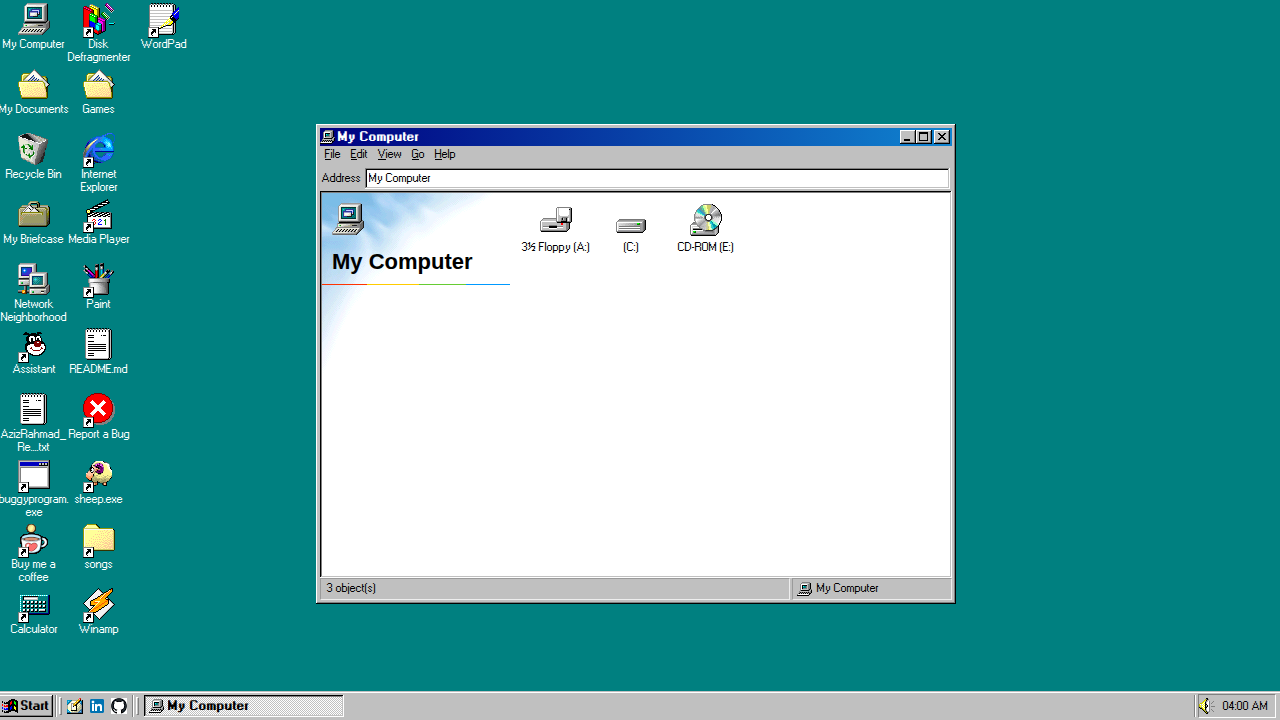
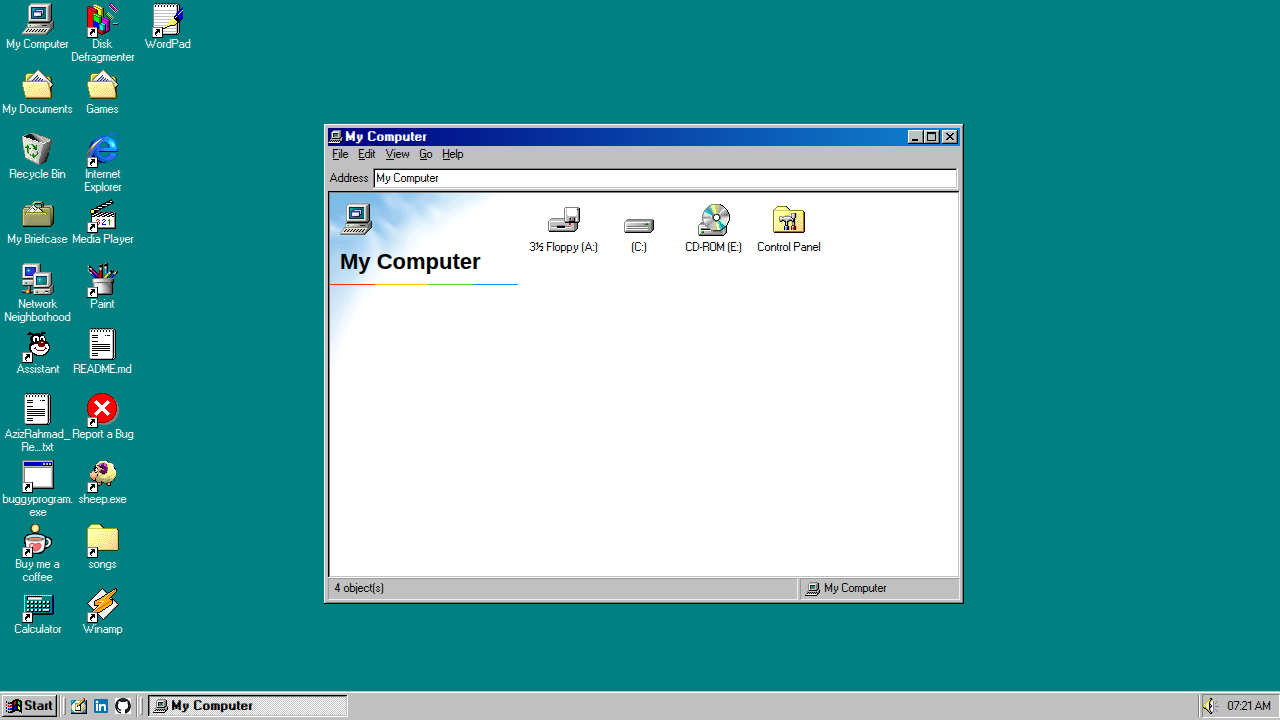
feat: add shell extension system and Control Panel with custom columns
- Implemented `ZenShellManager` for virtual shell extensions.
- Added `ControlPanelExtension` with custom columns (Name, Description).
- Updated `ZenDirectoryView` to support dynamic columns and custom sorting in Details view.
- Ensured My Computer root shows Name/Type columns with drives first.
- Added app descriptions to Control Panel items.

diff --git a/src/apps/zenexplorer/components/ZenDirectoryView.js b/src/apps/zenexplorer/components/ZenDirectoryView.js
@@ -64,8 +64,17 @@ export class ZenDirectoryView {
   async renderDirectoryContents(path) {
     let files = await ZenShellManager.readdir(path);
 
-    // Sort files alphabetically (so A: comes before C:)
-    files.sort((a, b) => a.localeCompare(b));
+    // Sort files alphabetically
+    files.sort((a, b) => {
+      // Special sort for root: Drives before shell extensions
+      if (path === "/") {
+        const isDriveA = a.match(/^[A-Z]:$/i);
+        const isDriveB = b.match(/^[A-Z]:$/i);
+        if (isDriveA && !isDriveB) return -1;
+        if (!isDriveA && isDriveB) return 1;
+      }
+      return a.localeCompare(b);
+    });
 
     // Clear view
     this.app.iconContainer.innerHTML = "";
@@ -84,18 +93,20 @@ export class ZenDirectoryView {
 
     // Details view rendering
     if (this.app.viewMode === "details") {
+      const columns = ZenShellManager.getColumns(path);
       const table = document.createElement("table");
       table.className = "interactive";
       const thead = document.createElement("thead");
-      thead.innerHTML = `
-        <tr>
-          <th>Name</th>
-          <th>Size</th>
-          <th>Type</th>
-          <th>Modified</th>
-        </tr>
-      `;
+
+      const headerRow = document.createElement("tr");
+      columns.forEach((col) => {
+        const th = document.createElement("th");
+        th.textContent = col.label;
+        headerRow.appendChild(th);
+      });
+      thead.appendChild(headerRow);
       table.appendChild(thead);
+
       const tbody = document.createElement("tbody");
       table.appendChild(tbody);
 
@@ -112,33 +123,51 @@ export class ZenDirectoryView {
           tr.setAttribute("data-type", isDir ? "directory" : "file");
           tr.setAttribute("data-name", file);
 
-          const nameCell = document.createElement("td");
-          nameCell.className = "name-cell";
+          for (let i = 0; i < columns.length; i++) {
+            const col = columns[i];
+            const td = document.createElement("td");
 
-          // Re-use renderFileIcon parts or just icons
-          const iconObj = await renderFileIcon(file, fullPath, isDir, {
-            metadata,
-            recycleBinEmpty,
-          });
-          // Extract icon and label
-          const iconPart = iconObj.querySelector(".icon");
-          const labelPart = iconObj.querySelector(".icon-label");
+            if (i === 0) {
+              // First column is always the name with icon
+              td.className = "name-cell";
 
-          if (iconPart) nameCell.appendChild(iconPart);
-          if (labelPart) nameCell.appendChild(labelPart);
-          tr.appendChild(nameCell);
+              // Re-use renderFileIcon parts or just icons
+              const iconObj = await renderFileIcon(file, fullPath, isDir, {
+                metadata,
+                recycleBinEmpty,
+              });
+              // Extract icon and label
+              const iconPart = iconObj.querySelector(".icon");
+              const labelPart = iconObj.querySelector(".icon-label");
 
-          const sizeCell = document.createElement("td");
-          sizeCell.textContent = isDir ? "" : this._formatSize(fileStat.size);
-          tr.appendChild(sizeCell);
+              if (iconPart) td.appendChild(iconPart);
+              if (labelPart) td.appendChild(labelPart);
+            } else {
+              // Try shell manager for value
+              let value = await ZenShellManager.getColumnValue(
+                fullPath,
+                col.key,
+                fileStat,
+              );
 
-          const typeCell = document.createElement("td");
-          typeCell.textContent = isDir ? "Folder" : (getAssociation(file).name || "File");
-          tr.appendChild(typeCell);
-
-          const dateCell = document.createElement("td");
-          dateCell.textContent = this._formatDate(fileStat.mtime);
-          tr.appendChild(dateCell);
+              // Fallback to defaults if not provided by extension
+              if (value === null) {
+                if (col.key === "size") {
+                  value = isDir ? "" : this._formatSize(fileStat.size);
+                } else if (col.key === "type") {
+                  value = isDir
+                    ? "Folder"
+                    : getAssociation(file).name || "File";
+                } else if (col.key === "modified") {
+                  value = this._formatDate(fileStat.mtime);
+                } else {
+                  value = "";
+                }
+              }
+              td.textContent = value;
+            }
+            tr.appendChild(td);
+          }
 
           this.app.iconManager.configureIcon(tr);
 

diff --git a/src/apps/zenexplorer/shell/ControlPanelExtension.js b/src/apps/zenexplorer/shell/ControlPanelExtension.js
@@ -11,11 +11,36 @@ export class ControlPanelExtension {
   constructor() {
     this.path = "/Control Panel";
     this.items = [
-      { id: "display", name: "Display", appId: "displayproperties" },
-      { id: "themes", name: "Desktop Themes", appId: "desktopthemes" },
-      { id: "sounds", name: "Sound", appId: "soundschemeexplorer" },
-      { id: "themetocss", name: "Theme to CSS", appId: "themetocss" },
-      { id: "mouse", name: "Mouse", appId: "cursorexplorer" },
+      {
+        id: "display",
+        name: "Display",
+        appId: "displayproperties",
+        description: "Customize your display settings.",
+      },
+      {
+        id: "themes",
+        name: "Desktop Themes",
+        appId: "desktopthemes",
+        description: "Customize your desktop's appearance.",
+      },
+      {
+        id: "sounds",
+        name: "Sound",
+        appId: "soundschemeexplorer",
+        description: "Explore and listen to sound schemes.",
+      },
+      {
+        id: "themetocss",
+        name: "Theme to CSS",
+        appId: "themetocss",
+        description: "Convert a Windows theme file to CSS.",
+      },
+      {
+        id: "mouse",
+        name: "Mouse",
+        appId: "cursorexplorer",
+        description: "Explore and preview cursor schemes.",
+      },
     ];
   }
 
@@ -91,6 +116,32 @@ export class ControlPanelExtension {
   getIcon(path, size = 32) {
     const iconObj = this.getIconObj(path);
     return iconObj ? iconObj[size] : null;
+  }
+
+  /**
+   * Get columns for the Control Panel directory
+   * @returns {Object[]}
+   */
+  getColumns() {
+    return [
+      { label: "Name", key: "name" },
+      { label: "Description", key: "description" },
+    ];
+  }
+
+  /**
+   * Get column value for Control Panel items
+   * @param {string} fullPath
+   * @param {string} columnKey
+   * @returns {string|null}
+   */
+  getColumnValue(fullPath, columnKey) {
+    const name = getPathName(fullPath);
+    const item = this.items.find((i) => i.name === name);
+    if (item && columnKey === "description") {
+      return item.description;
+    }
+    return null;
   }
 
   /**

diff --git a/src/apps/zenexplorer/utils/ZenShellManager.js b/src/apps/zenexplorer/utils/ZenShellManager.js
@@ -1,4 +1,5 @@
 import { fs } from "@zenfs/core";
+import { getParentPath } from "./PathUtils.js";
 
 /**
  * VirtualStats - Mock fs.Stats for shell extensions
@@ -138,5 +139,62 @@ export class ZenShellManager {
       return ext.onOpen(path, app);
     }
     return false;
+  }
+
+  /**
+   * Get columns to display for a specific directory path
+   * @param {string} path
+   * @returns {Object[]} Column definitions
+   */
+  static getColumns(path) {
+    if (path === "/") {
+      return [
+        { label: "Name", key: "name" },
+        { label: "Type", key: "type" },
+      ];
+    }
+
+    const ext = this.getExtensionForPath(path);
+    if (ext && ext.getColumns) {
+      return ext.getColumns(path);
+    }
+
+    return [
+      { label: "Name", key: "name" },
+      { label: "Size", key: "size" },
+      { label: "Type", key: "type" },
+      { label: "Modified", key: "modified" },
+    ];
+  }
+
+  /**
+   * Get the value for a specific column and path
+   * @param {string} fullPath
+   * @param {string} columnKey
+   * @param {Object} stats
+   * @returns {Promise<string|null>}
+   */
+  static async getColumnValue(fullPath, columnKey, stats) {
+    const ext = this.getExtensionForPath(fullPath);
+
+    // Give extension first priority for its handled paths
+    if (ext && ext.getColumnValue) {
+      const val = await ext.getColumnValue(fullPath, columnKey, stats);
+      if (val !== undefined && val !== null) return val;
+    }
+
+    // Default handling for root items
+    if (getParentPath(fullPath) === "/") {
+      if (columnKey === "type") {
+        if (fullPath.match(/^\/[A-Z]:$/i)) {
+          return "Disk";
+        }
+        if (ext) {
+          return "System Folder";
+        }
+      }
+    }
+
+    return null;
   }
 }
